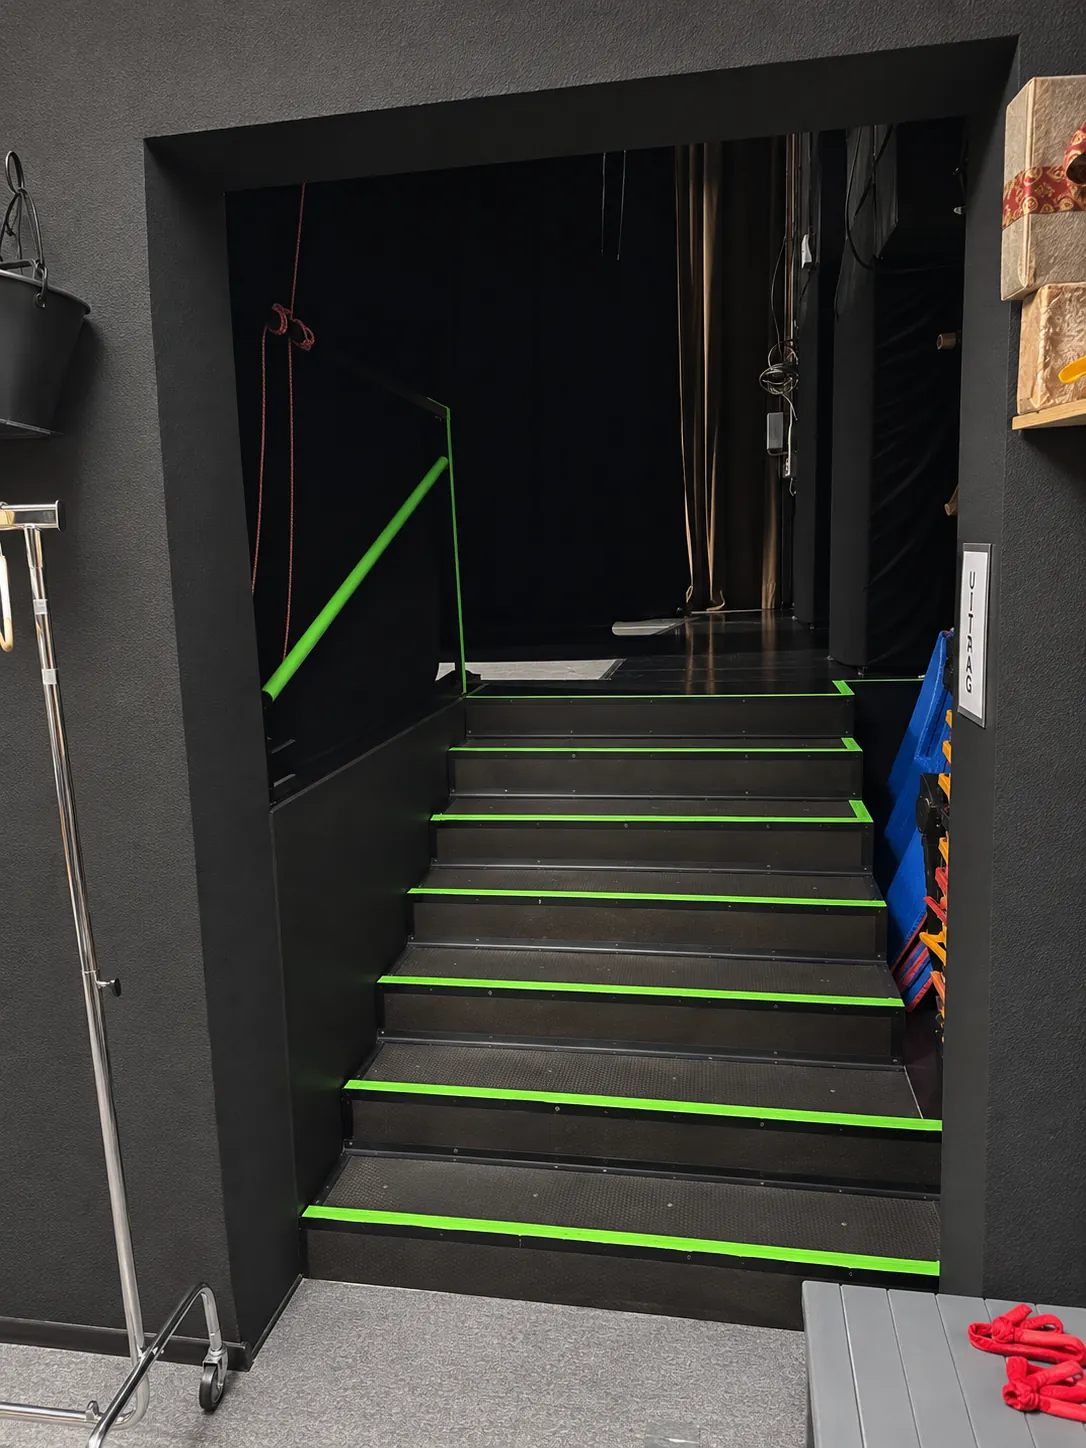
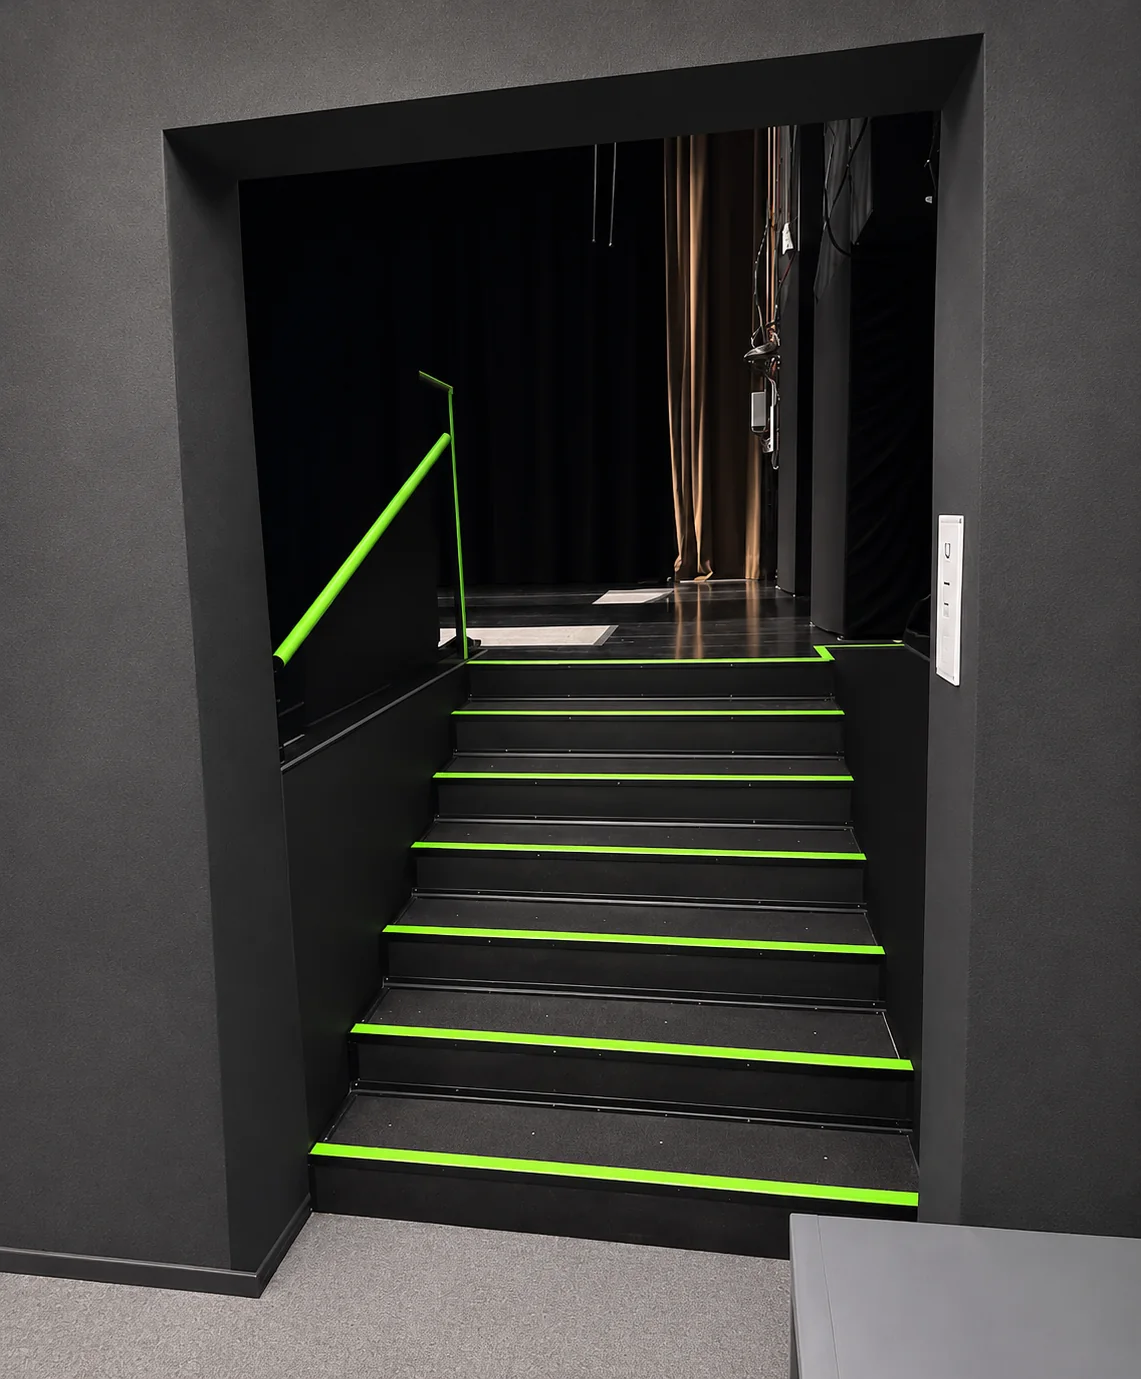
Replace right stage stair photo with approved cleaned image

diff --git a/stage.html b/stage.html
@@ -83,7 +83,7 @@ footer{border-top:1px solid rgba(255,255,255,.08);padding:26px 0 32px;color:#879
 <h2 class="section-heading">Проходы на сцену</h2>
 <section class="access" aria-label="Проходы и лестницы">
 <figure class="photo"><button type="button" data-src="stage/stage-access-1.webp?v=20261118-clean" data-caption="Левый подъём на сцену" aria-label="Увеличить фото левого подъёма на сцену"><img src="stage/stage-access-1.webp?v=20261118-clean" alt="Левый подъём на сцену, ступени с зелёной маркировкой" loading="lazy" decoding="async"></button><figcaption>Левый подъём на сцену</figcaption></figure>
-<figure class="photo"><button type="button" data-src="stage/stage-access-2.webp?v=20261118-clean" data-caption="Правый подъём на сцену" aria-label="Увеличить фото правого подъёма на сцену"><img src="stage/stage-access-2.webp?v=20261118-clean" alt="Правый подъём на сцену, лестница" loading="lazy" decoding="async"></button><figcaption>Правый подъём на сцену</figcaption></figure>
+<figure class="photo"><button type="button" data-src="stage/stage-access-2.webp?v=20261118-final" data-caption="Правый подъём на сцену" aria-label="Увеличить фото правого подъёма на сцену"><img src="stage/stage-access-2.webp?v=20261118-final" alt="Правый подъём на сцену, лестница" loading="lazy" decoding="async"></button><figcaption>Правый подъём на сцену</figcaption></figure>
 </section>
 </main>
 <footer>© TODESPRODUCTION 2026</footer>
